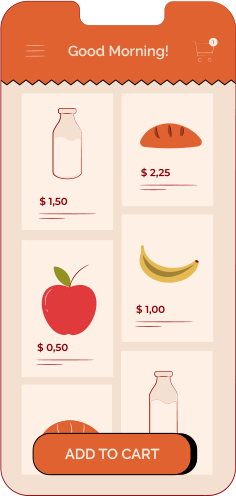
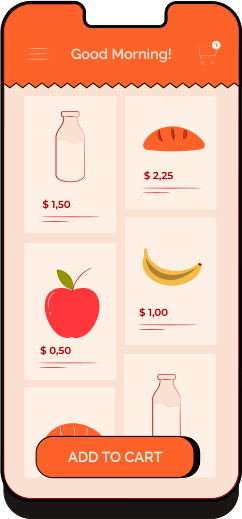
First page done

diff --git a/lab1/style.css b/lab1/style.css
@@ -1,13 +1,119 @@
 /* add your CSS here */
-#main{
+#main {
     padding: 1px;
-    background: url('images/phone.png') 960px 130px no-repeat,url('images/rbackground.png') right top no-repeat, url('images/wbackground.png') left top no-repeat;
-    background-size: 250px,450px 1000px, cover;
+    background: url('images/pear2.png') 650px 565px no-repeat,
+                url('images/red-noise-left.png') 0px 100px no-repeat,
+                url('images/strawberry-left.png') 0px 460px no-repeat,
+                url('images/strawberry-up.png') 693px 0px no-repeat,
+                url('images/white-noise-right.png') 1400px 508px no-repeat,
+                url('images/phone.png') 940px 110px no-repeat,
+                url('images/zigzag.png') center top no-repeat;
+    background-size: 250px,100px,110px,150px,100px,250px,cover;
     height: 750px;
-    width: 1525px;
+    width: 1500px;
     background-origin: border-box;
-}
+  }
 .contents{
-    height: 750px;
-    width: 1525px;
+    height: 725px;
+    width: 1500px;
 }
+
+.text {
+    font-family: Raleway Semibold;
+}
+
+#text0 {
+    position: absolute;
+    left: 14vw;
+    color: #ff6329;
+    text-align: right;
+    top: 60px;
+    font-size: 7vw;
+    width: 550px;
+}
+
+#text1 {
+    position: absolute;
+    left: 15vw;
+    color: #000;
+    text-align: center;
+    top: 400px;
+    font-size: 1vw;
+    width: 540px;
+}
+
+#text2 {
+    writing-mode: vertical-lr;
+    font-size: 25px;
+    left: 1300px;
+    position: absolute;
+    top: 185px;
+    width: 100px;
+    height: 395px;
+    color: #fae2d1;
+  }
+
+.button {
+    border: 3px solid black;
+    border-radius: 20px;
+    height: 30px;
+    width: 110px;
+    font-family: Raleway Semibold;
+}
+
+#button0 {
+    color: #fae2d1;
+    background-color: #ff6329;
+    position: relative;
+    left: 25vw;
+    top: 480px;
+}
+
+#button1 {
+    color: #ff6329;
+    background-color: #fae2d1;
+    position: relative;
+    left: 27vw;
+    top: 480px;
+}
+
+#menu {
+    height: 91px;
+    width: 1220px;
+    position: absolute;
+    left: 10vw;
+    top: 33px;
+    color: #ff6329;
+  }
+
+#home {
+    font-weight: bold;
+    font-size: 22px;
+    top: 8px;
+    position: absolute;
+    left: 8vw;
+  }
+
+#about {
+    font-weight: bold;
+    font-size: 22px;
+    top: 8px;
+    position: absolute;
+    left: 13vw;
+  }
+
+#shop {
+    font-weight: bold;
+    font-size: 22px;
+    top: 8px;
+    position: absolute;
+    left: 18vw;
+  }
+
+#contact {
+    font-weight: bold;
+    font-size: 22px;
+    top: 8px;
+    position: absolute;
+    left: 22vw;
+  }

diff --git a/lab1/index.html b/lab1/index.html
@@ -1,18 +1,30 @@
-<!DOCTYPE html>
-<html>
-  <head>
-    <meta charset="UTF-8">
-    <meta name="viewport" content="width=device-width, initial-scale=1.0">
-    <title>Gîlca, Constantina, FAF 202</title>
-    <!--<link rel="stylesheet" href="reset.css">-->
-    <link rel="stylesheet" href="style.css">
-  </head>
-  <body>
-    <div id="main">
-      <div class="contents">
-        <h2>Lorem Ipsum Dolor</h2>
-        <p>Lorem ipsum dolor sit amet, consectetuer adipiscing elit, sed diam nonummy nibh euismod tincidunt ut laoreet dolore magna aliquam erat volutpat.</p>
+<html><head>
+  <meta charset="UTF-8">
+  <meta name="viewport" content="width=device-width, initial-scale=1.0">
+  <title>Gîlca, Constantina, FAF 202</title>
+  <!--<link rel="stylesheet" href="reset.css">-->
+  <link rel="stylesheet" href="style.css">
+</head>
+<body>
+  <div id="main">
+    <div class="contents">
+      <p class="text" id="text0">Groceries  On the Go.</p>
+      <p class="text" id="text1">Bluu Grocer Mart promises quality food products that are ethically sourced, fresh, and carefully picked for our customers. 
+      Our products range from meat,vegetables to fruits that you'll definitely enjoy.</p><p class="text" id="text2">Quality Products, Made Everyday.</p>
+      <button id="button0" type="button" class="button">SHOP NOW</button>
+      <button type="button" class="button" id="button1">LEARN MORE</button>
+      <img src="images/down-arrow.png" style="position:absolute; left:33vw;top: 570px;">
+      <div id="menu">
+        <img src="images/logo2.png" style="position: absolute;left: 2vw;top: 14px;">
+        <p id="home" class="text">Home</p>
+        <p class="text" id="about">About</p>
+        <p class="text" id="shop">Shop</p>
+        <p class="text" id="contact">Contact Us</p>
+        <img src="images/search.png" style="position: absolute;left: 73vw;top: 31px;">
+        <img src="images/cart.png" style="position: absolute;left: 76vw;top: 31px;">
       </div>
     </div>
-  </body>
+  </div>
+
+</body>
 </html>
